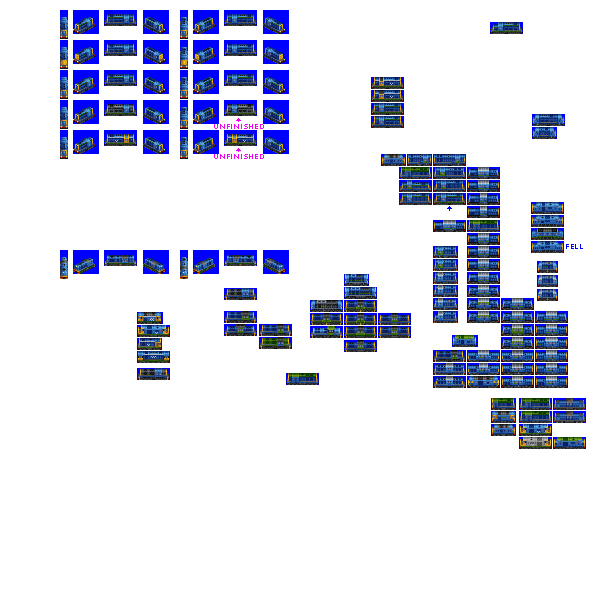
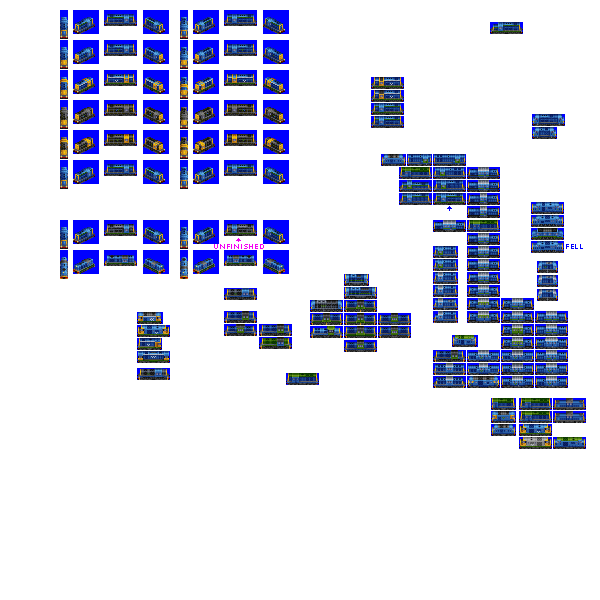
Change: additional liveries for Smizzle

diff --git a/src/vehicles/pony/smizzle.py b/src/vehicles/pony/smizzle.py
@@ -19,9 +19,10 @@ def main(**kwargs):
         intro_year_offset=-1,  # introduce earlier by design
         liveries=[
             "CLASSIC_LINES",
-            #"WORKHORSE",
             "STOCK_STANDARD",
-           # "RAILFREIGHT_RED_STRIPE",
+            "RAILFREIGHT_RED_STRIPE",
+            "FREIGHT_BLACK",
+            "SHOW_PONY",
             "INDUSTRIAL_YELLOW",
         ],
         sprites_complete=True,

diff --git a/bin/company_colour_remaps.py b/bin/company_colour_remaps.py
@@ -9,7 +9,7 @@ from polar_fox import graphics_units
 # requires a tmp dir to exist, which should be gitignored
 # set the filename
 input_filenames = [
-    "trojan",
+    "smizzle",
 ]
 
 CC1 = 198
